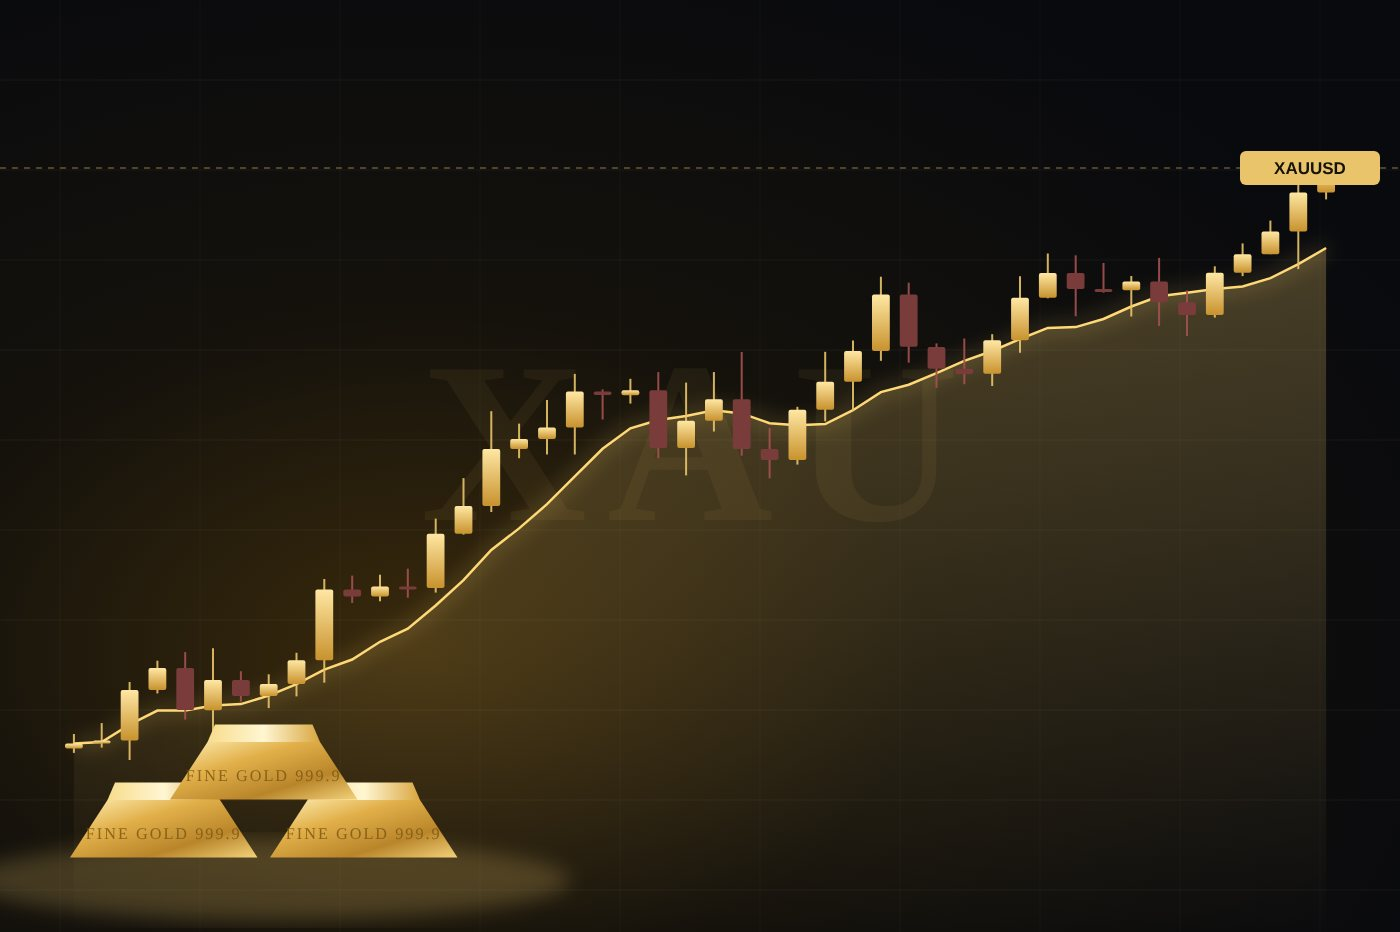
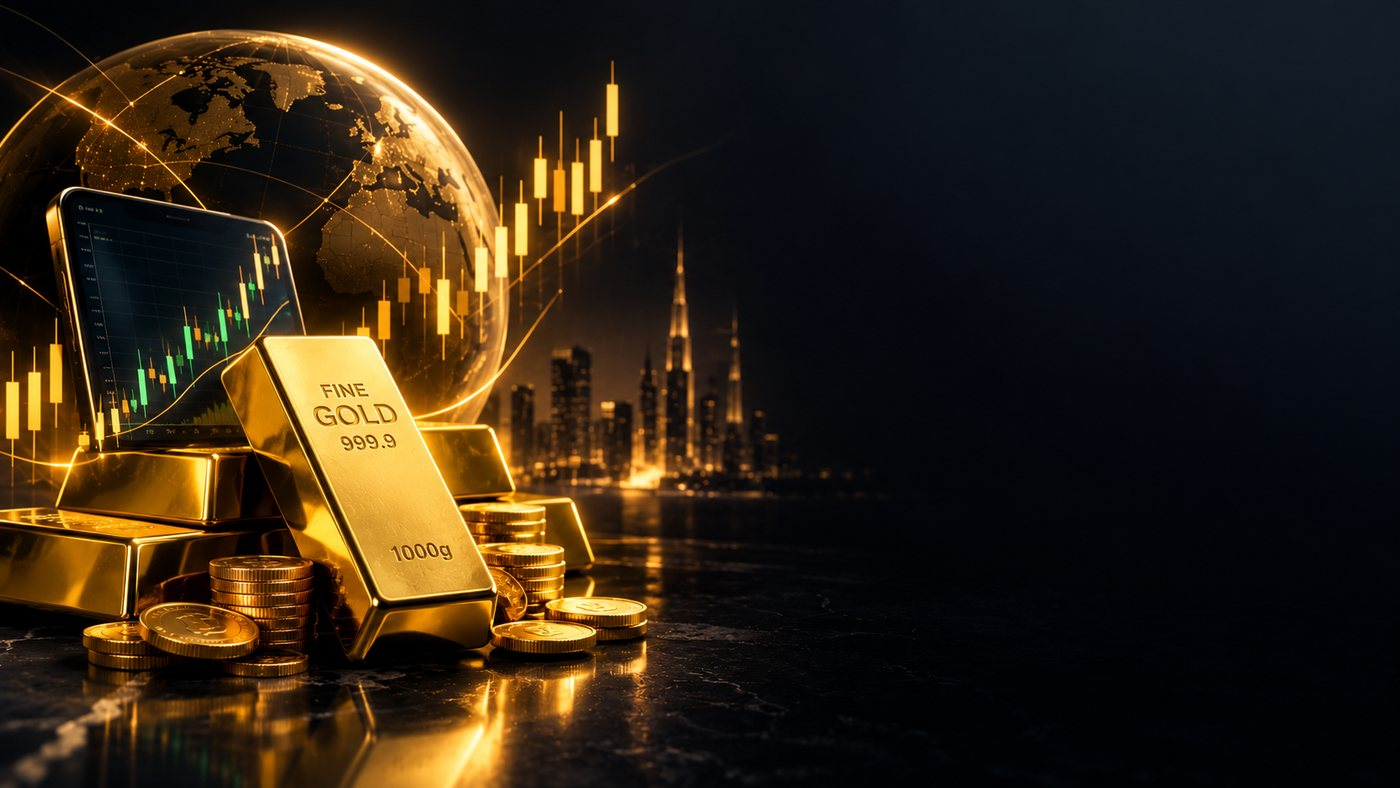
Use the new gold trading photo in the /lead hero slider
Claude-Session: https://claude.ai/code/session_01Wa1LqVDbMZmh4jqpeQDazr

diff --git a/bluehost/mentorship.php b/bluehost/mentorship.php
@@ -379,7 +379,7 @@ footer small{display:block;margin-bottom:10px}
   <div class="hero-media">
     <img src="/images/new-york-stock-exchange-trading-floor.jpg" alt="تالار معاملات بورس نیویورک" data-en-alt="New York Stock Exchange trading floor" fetchpriority="high">
     <img decoding="async" src="/images/mojtaba-hosseini-montana-cafe-laptop.jpg" alt="مجتبی حسینی (مونتانا) در کافه پشت لپتاپ" data-en-alt="Mojtaba Hosseini (Montana) with his laptop at a café">
-    <img decoding="async" src="/images/gold-trading-xauusd.jpg" alt="ترید طلا: نمودار انس طلا و شمش طلا" data-en-alt="Gold trading: XAU/USD chart and gold bars">
+    <img decoding="async" src="/images/gold-trading-xauusd.jpg" alt="ترید طلا: شمش طلا، سکه و نمودار بازار جهانی" data-en-alt="Gold trading: gold bars, coins and a global market chart">
   </div>
   <div class="wrap"><div class="hero-copy">
     <span class="tag" data-en="&lt;i&gt;&lt;/i&gt;Live online mentorship · Free sign-up"><i></i>منتورشیپ آنلاین و زنده · ثبتنام رایگان</span>
